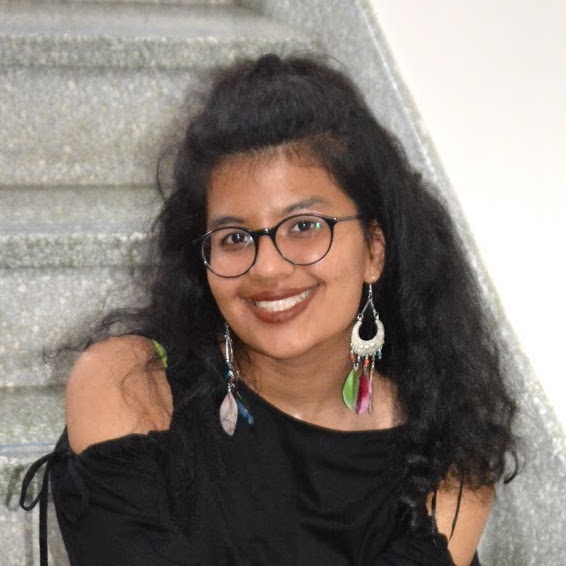
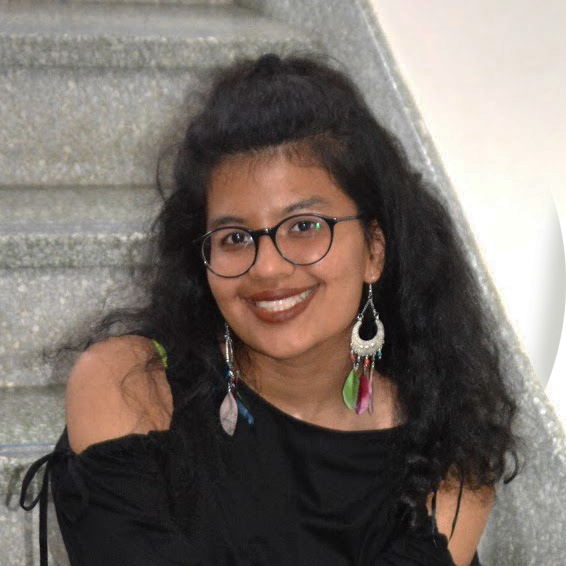
fixed img border issue

diff --git a/static/css/uqcs.css b/static/css/uqcs.css
@@ -20,7 +20,7 @@
 
 .committee-headshot {
     border-radius: 50%;
-    border: 2px solid #444;
+    /*border: 2px solid #444;*/
     width: 100%;
 }
 
